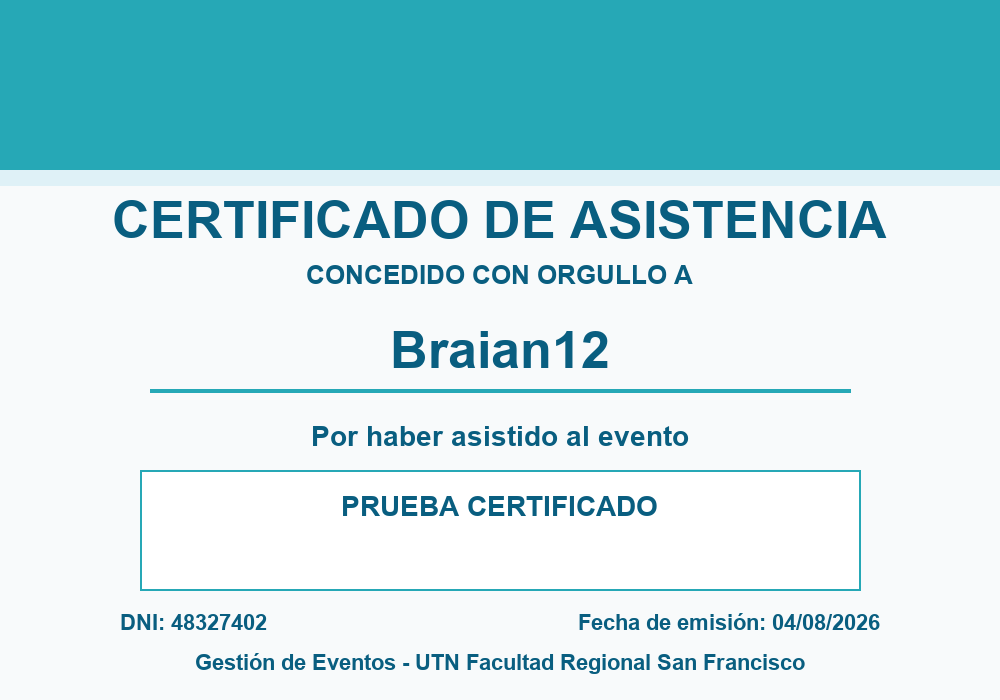
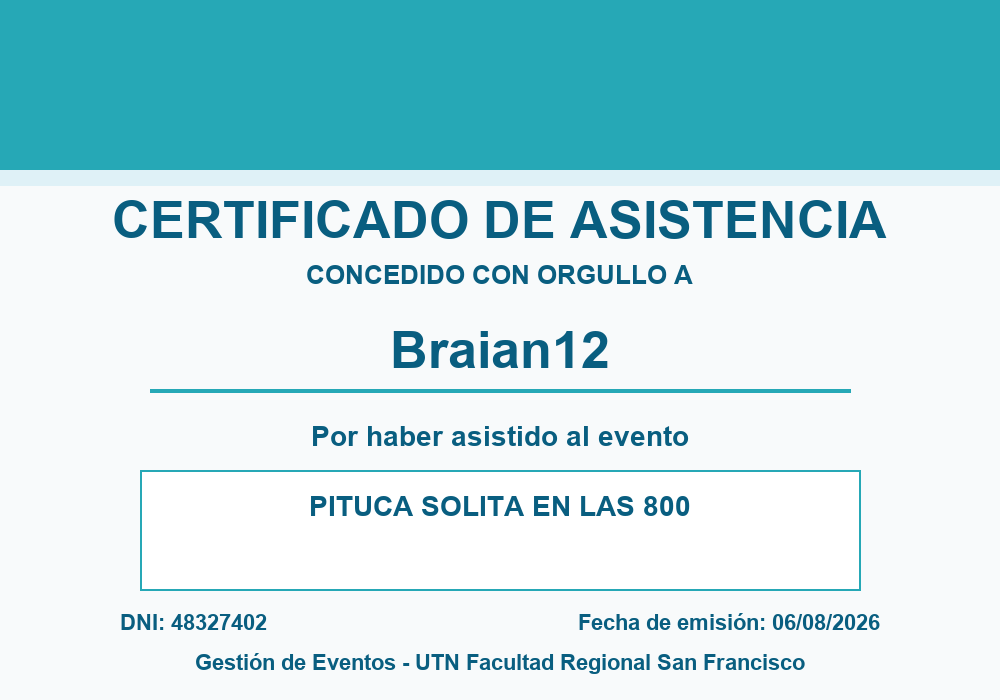
Add files via upload

Changed region(s): [[0.31, 0.69, 0.589, 0.75], [0.62, 0.69, 0.682, 0.75], [0.775, 0.87, 0.806, 0.9]]

diff --git a/Flask-login/src/templates/admin.html b/Flask-login/src/templates/admin.html
@@ -15,6 +15,8 @@
   .btn-admin-secondary:hover { background: #e9edf2; }
   .btn-admin-outline { background: #ffffff; color: #04047f; border: 1px solid #04047f; }
   .btn-admin-outline:hover { background: #f5f7f9; }
+  .btn-admin-danger { background: #d9534f; color: #ffffff; border: none; }
+  .btn-admin-danger:hover { background: #c9302c; }
   .btn-admin-logout { background: #d9534f; color: #ffffff; border: none; }
   .btn-admin-logout:hover { background: #c9302c; }
   .admin-panel-card, .form-card { border-radius: 24px; box-shadow: 0 20px 50px rgba(0, 0, 0, 0.08); overflow: hidden; }
@@ -40,6 +42,10 @@
         <a href="{{ url_for('home') }}" class="btn btn-outline-secondary btn-pill shadow-sm">Volver al menú</a>
         {% if current_user.rol == 'admin' %}
           <a href="{{ url_for('gestionar_organizadores') }}" class="btn btn-admin-outline btn-pill shadow-sm">Administrar Usuarios</a>
+          <form method="post" action="{{ url_for('borrar_historial_admin') }}" class="mt-1">
+            <input type="hidden" name="csrf_token" value="{{ csrf_token() }}">
+            <button type="submit" class="btn btn-admin-danger btn-pill shadow-sm w-100">Borrar historial</button>
+          </form>
         {% endif %}
         <a href="{{ url_for('logout') }}" class="btn btn-admin-logout btn-pill shadow-sm">Cerrar sesión</a>
       </div>

diff --git a/Flask-login/src/templates/editar_ubicacion.html b/Flask-login/src/templates/editar_ubicacion.html
@@ -1,0 +1,37 @@
+<!DOCTYPE html>
+<html lang="es">
+<head>
+    <meta charset="UTF-8">
+    <meta name="viewport" content="width=device-width, initial-scale=1.0">
+    <title>Editar ubicación</title>
+    <link rel="stylesheet" href="{{ url_for('static', filename='style.css') }}">
+</head>
+<body>
+    <div class="container">
+        <h2>Editar ubicación del evento</h2>
+
+        {% with messages = get_flashed_messages(with_categories=true) %}
+        {% if messages %}
+            <div class="flash-messages">
+            {% for category, message in messages %}
+                <div class="flash {{ category }}">{{ message }}</div>
+            {% endfor %}
+            </div>
+        {% endif %}
+        {% endwith %}
+
+        <form method="post">
+            <input type="hidden" name="csrf_token" value="{{ csrf_token() }}">
+            <div class="form-group">
+                <label for="lugar">Nueva ubicación</label>
+                <input type="text" id="lugar" name="lugar" value="{{ evento.lugar }}" placeholder="Ej: Aula 102" required>
+            </div>
+            <button type="submit">Guardar ubicación</button>
+        </form>
+
+        <div class="enlaces">
+            <a href="{{ url_for('detalle_evento', evento_id=evento.id) }}">← Volver al evento</a>
+        </div>
+    </div>
+</body>
+</html>

diff --git a/Flask-login/src/templates/detalle.html b/Flask-login/src/templates/detalle.html
@@ -47,6 +47,7 @@
                 <a class="btn btn-secondary" href="{{ back_url }}">Volver atrás</a>
             </div>
         {% else %}
+            {% set puede_editar_ubicacion = not evento.finalizado and cupos_disponibles <= 0 and current_user.rol == 'admin' %}
             {% if not evento.finalizado and not registrado and current_user.email != 'admin' and current_user.username != 'admin' %}
                 {% if cupos_disponibles > 0 %}
                     <form method="post" action="{{ url_for('registrar_evento', evento_id=evento.id) }}" onsubmit="return confirm('¿Estás seguro de que deseas anotarte a este evento?');">
@@ -58,6 +59,12 @@
                 {% endif %}
             {% elif registrado and not evento.finalizado %}
                 <div class="flash success" style="margin-top: 20px;">Ya estás anotado en este evento.</div>
+            {% endif %}
+
+            {% if puede_editar_ubicacion %}
+                <div style="margin-top: 20px;">
+                    <a class="btn btn-secondary" href="{{ url_for('editar_ubicacion_evento', evento_id=evento.id) }}">Editar ubicación</a>
+                </div>
             {% endif %}
 
             <div class="enlaces">

diff --git a/Flask-login/src/app.py b/Flask-login/src/app.py
@@ -249,6 +249,65 @@ def get_user_registrations(db, dni_usuario):
         print(f"[ERROR] get_user_registrations: {ex}")
         return []
 
+
+def delete_finished_events_and_qr():
+    """Elimina eventos ya finalizados, sus registros y sus QR asociados."""
+    try:
+        cursor = db.connection.cursor()
+        cursor.execute(
+            """
+            SELECT id
+            FROM event
+            WHERE finalizado = 1 OR fecha < CURDATE()
+            ORDER BY id
+            """
+        )
+        events = cursor.fetchall()
+
+        if not events:
+            return {'deleted_events': 0, 'deleted_registrations': 0, 'deleted_qr_files': 0}
+
+        event_ids = [row[0] for row in events]
+        qr_paths_to_remove = []
+        for event_id in event_ids:
+            cursor2 = db.connection.cursor()
+            cursor2.execute("SELECT qr_code FROM registrados WHERE evento_id = %s", (event_id,))
+            for (qr_code,) in cursor2.fetchall():
+                if qr_code:
+                    qr_paths_to_remove.append(qr_code)
+
+        seen_qr_paths = []
+        for qr_path in qr_paths_to_remove:
+            if qr_path in seen_qr_paths:
+                continue
+            seen_qr_paths.append(qr_path)
+            try:
+                normalized_path = qr_path.replace('/static/qr/', '').replace('static/qr/', '')
+                filename = os.path.basename(normalized_path)
+                if not filename:
+                    continue
+                full_path = os.path.join(app.static_folder, 'qr', filename)
+                if os.path.exists(full_path):
+                    os.remove(full_path)
+            except Exception as ex:
+                print(f"[WARN] No se pudo eliminar el QR {qr_path}: {ex}")
+
+        placeholders = ', '.join(['%s'] * len(event_ids))
+        cursor.execute(f"DELETE FROM registrados WHERE evento_id IN ({placeholders})", tuple(event_ids))
+        cursor.execute(f"DELETE FROM event WHERE id IN ({placeholders})", tuple(event_ids))
+        db.connection.commit()
+
+        return {
+            'deleted_events': len(event_ids),
+            'deleted_registrations': cursor.rowcount if hasattr(cursor, 'rowcount') else len(event_ids),
+            'deleted_qr_files': len(seen_qr_paths)
+        }
+    except Exception as ex:
+        db.connection.rollback()
+        print(f"[ERROR] delete_finished_events_and_qr: {ex}")
+        raise
+
+
 def generate_qr_code(evento_id, dni_usuario, nombre_usuario, registro_id):
     """Genera un código QR para el registro de un usuario en un evento"""
     try:
@@ -629,6 +688,23 @@ def gestionar_organizadores():
     usuarios = ModelUser.get_all_users(db)
     return render_template('admin_organizadores.html', usuarios=usuarios)
 
+@app.route('/admin/borrar-historial', methods=['POST'])
+@login_required
+def borrar_historial_admin():
+    if not current_user.is_authenticated or getattr(current_user, 'rol', '') != 'admin':
+        return redirect(url_for('login'))
+
+    try:
+        result = delete_finished_events_and_qr()
+        flash(
+            f"Historial limpiado. Se eliminaron {result['deleted_events']} eventos, {result['deleted_registrations']} inscripciones y {result['deleted_qr_files']} QR.",
+            'success'
+        )
+    except Exception as ex:
+        flash(f'No se pudo borrar el historial: {ex}', 'error')
+
+    return redirect(url_for('admin_dashboard'))
+
 @app.route('/evento/<int:evento_id>/usuarios')
 @login_required
 def ver_usuarios_evento(evento_id):
@@ -670,6 +746,46 @@ def eliminar_usuario_registrado(evento_id, registro_id):
         flash("Ocurrió un error al eliminar al usuario.", "error")
 
     return redirect(url_for('ver_usuarios_evento', evento_id=evento_id))
+
+@app.route('/evento/<int:evento_id>/editar-ubicacion', methods=['GET', 'POST'])
+@login_required
+def editar_ubicacion_evento(evento_id):
+    if not current_user.is_authenticated:
+        return redirect(url_for('login'))
+
+    evento = get_event_from_db(evento_id)
+    if evento is None:
+        return "Evento no encontrado", 404
+
+    es_admin = getattr(current_user, 'rol', '') == 'admin' or getattr(current_user, 'email', '') == 'admin'
+    es_organizador = getattr(current_user, 'rol', '') == 'organizador'
+    es_propietario = getattr(evento, 'get', lambda *args, **kwargs: None)('created_by') in (None, getattr(current_user, 'id', None))
+
+    if not es_admin and not (es_organizador and es_propietario):
+        flash('No tenés permiso para cambiar la ubicación de este evento.', 'error')
+        return redirect(url_for('detalle_evento', evento_id=evento_id))
+
+    if evento.get('finalizado'):
+        flash('Este evento ya finalizó y no se puede modificar.', 'error')
+        return redirect(url_for('detalle_evento', evento_id=evento_id))
+
+    if request.method == 'POST':
+        nuevo_lugar = request.form.get('lugar', '').strip()
+        if not nuevo_lugar:
+            flash('La nueva ubicación es obligatoria.', 'error')
+            return render_template('editar_ubicacion.html', evento=evento)
+
+        try:
+            cursor = db.connection.cursor()
+            cursor.execute("UPDATE event SET lugar = %s WHERE id = %s", (nuevo_lugar, evento_id))
+            db.connection.commit()
+            flash('La ubicación del evento se actualizó correctamente.', 'success')
+            return redirect(url_for('detalle_evento', evento_id=evento_id))
+        except Exception as ex:
+            flash(f'No se pudo actualizar la ubicación: {ex}', 'error')
+            return render_template('editar_ubicacion.html', evento=evento)
+
+    return render_template('editar_ubicacion.html', evento=evento)
 
 @app.route('/evento/editar/<int:evento_id>', methods=['GET', 'POST'])
 @login_required
